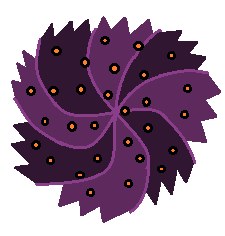
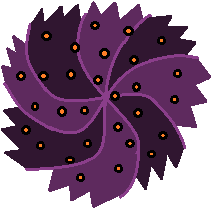
Fixed bug with Blood Crescent. Updated Altar Arts

diff --git a/Maneuver.js b/Maneuver.js
@@ -431,10 +431,10 @@ function point_equals(p1, p2){
 // Settings just used for testing. Leave as undefined when not in use.
 function init_settings(){
     const init = {
-        enemies: [maw_tile],
-        chests: [roar_of_challenge, roar_of_challenge],
+        enemies: undefined,
+        chests: undefined,
         cards: undefined,
-        area: generate_court_area,
+        area: undefined,
         area_size: undefined,
         achievements: undefined,
         save: undefined,
@@ -4787,7 +4787,7 @@ function blood_crescent_ai(self, target, map){
     var direction = self.tile.direction;
     set_rotation(self.tile);
     var ahead = self.location.plus(direction);
-    if(point_equals(target.difference, ahead.times(-1))){
+    if(point_equals(self.location.plus(target.difference), ahead)){
         map.attack(ahead);
     }
     for(var i = 0; i < distance && map.move(self.location, self.location.plus(direction)) ; ++i){
@@ -4802,7 +4802,7 @@ function blood_crescent_ai(self, target, map){
         }
         if(i + 1 < distance){
             ahead = self.location.plus(direction);
-            if(point_equals(target.difference, ahead.times(-1))){
+            if(point_equals(self.location.plus(target.difference), ahead)){
                 map.attack(ahead);
             }
         }

diff --git a/source/2_entities/enemies/blood_crescent.js b/source/2_entities/enemies/blood_crescent.js
@@ -27,7 +27,7 @@ function blood_crescent_ai(self, target, map){
     var direction = self.tile.direction;
     set_rotation(self.tile);
     var ahead = self.location.plus(direction);
-    if(point_equals(target.difference, ahead.times(-1))){
+    if(point_equals(self.location.plus(target.difference), ahead)){
         map.attack(ahead);
     }
     for(var i = 0; i < distance && map.move(self.location, self.location.plus(direction)) ; ++i){
@@ -42,7 +42,7 @@ function blood_crescent_ai(self, target, map){
         }
         if(i + 1 < distance){
             ahead = self.location.plus(direction);
-            if(point_equals(target.difference, ahead.times(-1))){
+            if(point_equals(self.location.plus(target.difference), ahead)){
                 map.attack(ahead);
             }
         }
